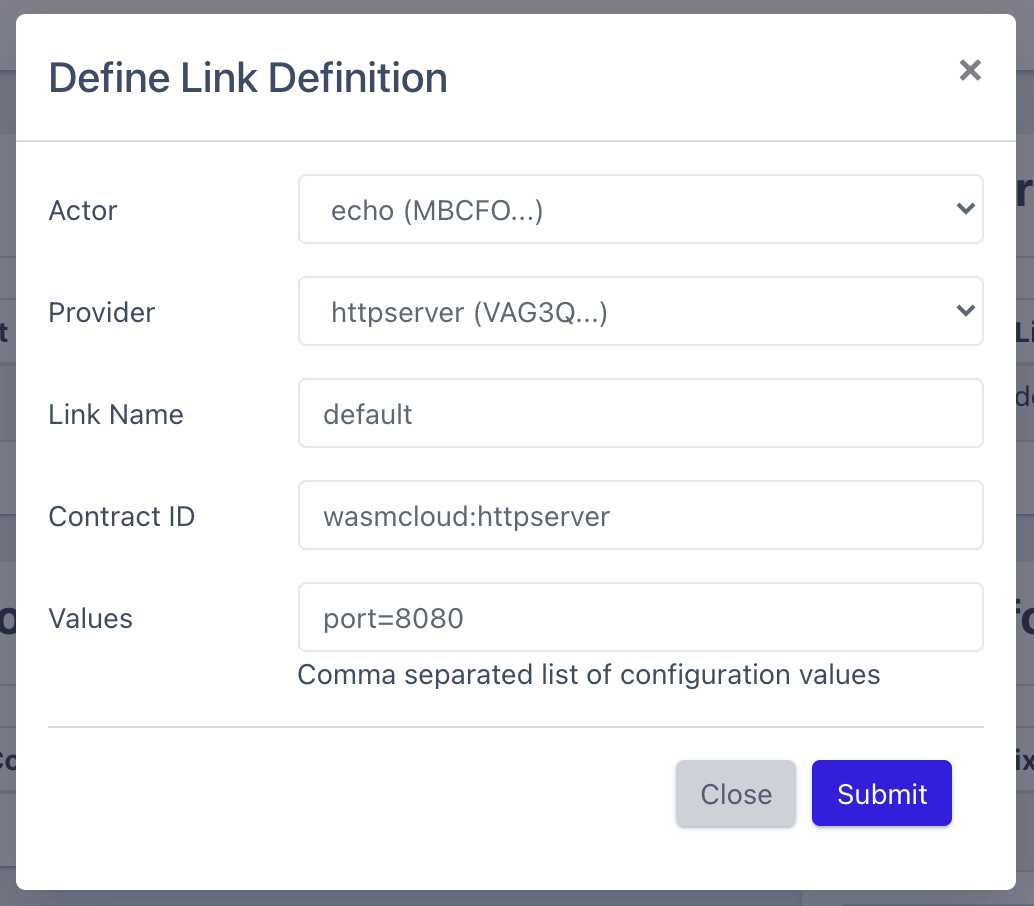
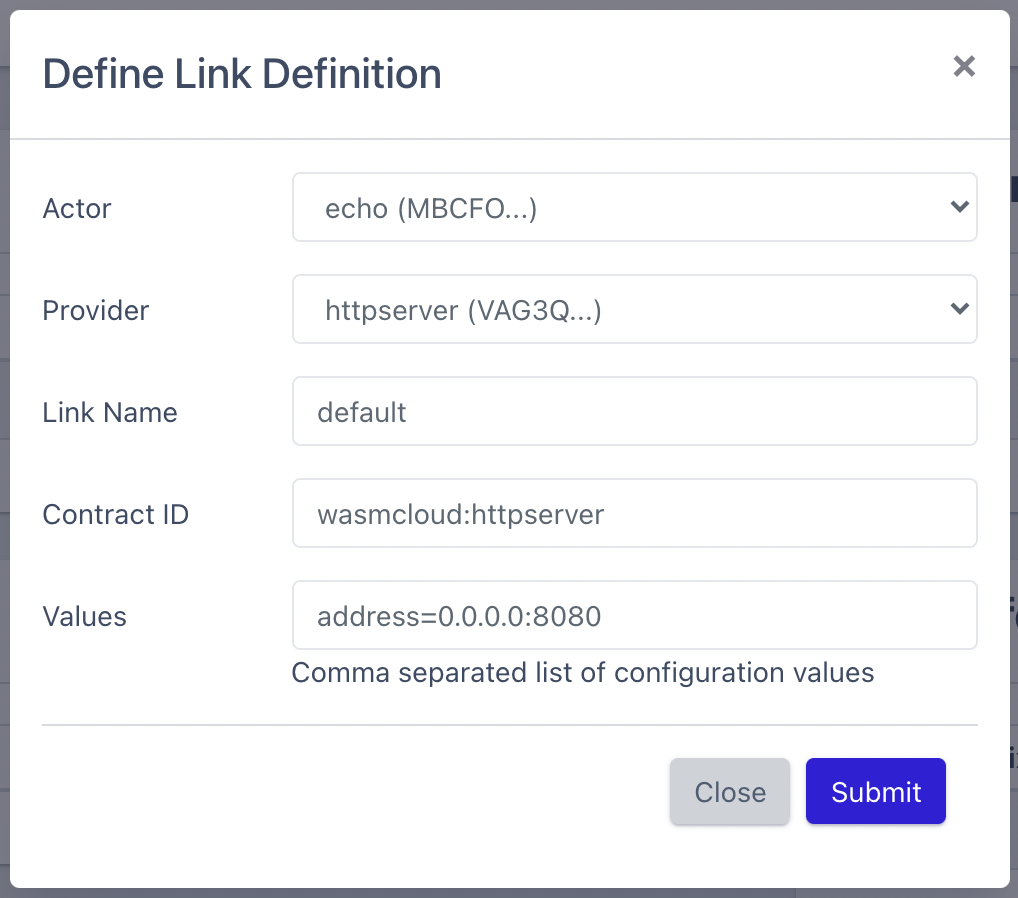
Hot Reload documentation (#79)
* added hotreload documentation

* polished first getting started section

* ensured markdown language is set across docs

small cleanup

* PR suggestions

* renamed input to enter

* corrected version to be minor bump

diff --git a/content/overview/getting-started/_index.en.md b/content/overview/getting-started/_index.en.md
@@ -24,6 +24,8 @@ To see a list of running hosts, issue the following command in a terminal window
 
 ```shell
 wash ctl get hosts
+```
+```shell
 ⢈⠩  Retrieving Hosts ...
 
   Host ID                                                    Uptime (seconds)
@@ -68,7 +70,8 @@ Let's use the `wash` CLI to inspect the set of capabilities this actor has:
 
 ```shell
 wash claims inspect wasmcloud.azurecr.io/echo:0.3.2
-
+```
+```shell
                                Echo - Module
   Account       ACOJJN6WUP4ODD75XEBKKTCCUJJCY5ZKQ56XVKYK4BEJWGVAOOQHZMCW
   Module        MBCFOPM6JW2APJLXJD3Z5O4CN7CPYJ2B4FTKLJUR5YR5MITIU7HD3WD5
@@ -82,11 +85,11 @@ wash claims inspect wasmcloud.azurecr.io/echo:0.3.2
   None
 ```
 
-To start the HTTP server capability provider, again use the web UI and click **Start Provider** and then select _From Registry_. Supply the OCI URL `wasmcloud.azurecr.io/httpserver:0.14.4` and leave the _link name_ set to `default`. You should now see this capability provider running.
+To start the HTTP server capability provider, again use the web UI and click **Start Provider** and then select _From Registry_. Supply the OCI URL `wasmcloud.azurecr.io/httpserver:0.14.6` and leave the _link name_ set to `default`. You should now see this capability provider running, and within 30 seconds it should report its status as Healthy.
 
 ![dashboard3](./washboard3.png)
 
-Let's take a look at our host's inventory now. If you re-run the inventory command `wash ctl get inventory`, you should see something like the following (again, your Host ID and Actor ID will differ):
+Let's take a look at our host's inventory now. If you re-run the inventory command `wash ctl get inventory`, you should see something like the following (again, your Host ID will be different):
 
 ```shell
 Host Inventory (NCPGH5CVPO3BAZ5OSQKXYHDKPBT3JXLG5EAOTG7XOXUWJ6AHZCFT57SI)
@@ -99,16 +102,17 @@ Host Inventory (NCPGH5CVPO3BAZ5OSQKXYHDKPBT3JXLG5EAOTG7XOXUWJ6AHZCFT57SI)
   MBCFOPM6JW2APJLXJD3Z5O4CN7CPYJ2B4FTKLJUR5YR5MITIU7HD3WD5    N/A                wasmcloud.azurecr.io/echo:0.3.2
 
   Provider ID                                                 Name               Link Name          Image Reference
-  VAG3QITQQ2ODAOWB5TTQSDJ53XK3SHBEIFNK4AYJ5RKAX2UNSCAPHA5M    N/A                default            wasmcloud.azurecr.io/httpserver:0.14.4
+  VAG3QITQQ2ODAOWB5TTQSDJ53XK3SHBEIFNK4AYJ5RKAX2UNSCAPHA5M    N/A                default            wasmcloud.azurecr.io/httpserver:0.14.6
 ```
 
 #### Linking actors and capability providers
 
-The Echo actor and HTTP Server providers are running, but they aren't connected. Since the HTTP server provider hasn't been _linked_ to any actor yet, it hasn't yet open a port to listen to web requests to forward to the actor. To allow the actor and provider to communicate, they need to be linked. We could link them with wash cli (`wash ctl link put ...`), using the ActorID and the ProviderID from the inventory, but this time we'll link them in the web UI.
+The Echo actor and HTTP Server providers are running, but they aren't connected. Since the HTTP server provider hasn't been _linked_ to any actor yet, it hasn't yet opened a port to listen to web requests to forward to the actor. To allow the actor and provider to communicate, they need to be linked. We could link them with wash cli (`wash ctl link put ...`), using the Actor ID and the Provider ID from the inventory, but this time we'll link them in the web UI.
 
-Go back to the web UI and click **Define Link**. The web UI remembered the public keys of the actors and providers running, so you just need to pick them out of a dropdown selector at the top of the form, as shown below. For the 'Values' field, you can select a port number for the HTTP Server listener, and enter `port=8080` if you want to use port 8080 on localhost. (there should be no spaces before or after the equals sign). If you want the HTTP listener to use a different ip address, use "address" instead of port, and provide both IP address and the port, as in `address=10.1.1.1:8080`.
-
-⚠ `Docker` If you're running this example using the docker image, you'll need to use `address=0.0.0.0:8080` instead of the `port` value. This is required due to the way containers expose ports to host networking environments.
+Go back to the web UI and click **Define Link**. The web UI remembered the public keys of the actors and providers running, so you just need to pick them out of a dropdown selector at the top of the form, as shown below. For the 'Values' field, you'll need to provide either a port to listen on or an address including hostname and port. For simplicity and compatibility, enter the following into your 'Values' form:
+```shell
+address=0.0.0.0:8080
+```
 
 ![dashboard4](./washboard4.png)
 
@@ -118,7 +122,7 @@ Once you see that the link has been added to the dashboard UI (you can also use 
 
 In another terminal window, run the following command:
 
-```
+```shell
 curl localhost:8080/echo
 ```
 
@@ -153,14 +157,14 @@ Once you locate the value, go ahead and export it as an environment variable:
 {{% tabs %}}
 {{% tab "Unix" %}}
 
-```
+```shell
 export WASMCLOUD_CLUSTER_SEED=SCAJIRZPJGI2ODWHALXJ5U7ZRC7MR27JMJOPLIKMDJ3QNQGA3TCPDFENDI
 ```
 
 {{% /tab %}}
 {{% tab "Windows Powershell" %}}
 
-```
+```powershell
 $env:WASMCLOUD_CLUSTER_SEED = SCAJIRZPJGI2ODWHALXJ5U7ZRC7MR27JMJOPLIKMDJ3QNQGA3TCPDFENDI
 ```
 

diff --git a/content/app-dev/create-actor/update.md b/content/app-dev/create-actor/update.md
@@ -5,6 +5,29 @@ weight: 5
 draft: false
 ---
 
+### Setting up Hot Reloading
+
+This section will introduce you to the process wasmCloud developers use to rapidly iterate on their actors. Introduced in wasmCloud `v0.51.0`, the Hot Reloading feature allows the dashboard to watch your signed actor file and automatically replace all instances of that actor upon a file change. This happens quickly (blink and you might miss it!) and tightly constrains the developer feedback loop so you can spend more time developing and less time waiting.
+
+Let's start by scaling down our `hello` actor if it's still running from a previous step. Look for the yellow scale button <img src="../scalebutton.png" alt="scalebutton" width="30px"/> in the 'Actions' column, and set the replicas to `0` before hitting Submit.
+
+![scaledown](../scaledown.png)
+
+Now, let's start the actor again using the "Start Actor" dropdown, but this time let's use the _From File (Hot Reload)_ option. You'll be required to supply the absolute path [^1] to your actor file, and you can choose a number of replicas to start as well. Luckily, we have an easy way for you to get the absolute path of your actor. Simply navigate to your actor project directory and run:
+```shell
+make target-path-abs
+```
+
+Copy the path printed by this command into the and enter it in the _Start Actor_ form along with any number of replicas, and hit submit.
+
+![starthotreload](../starthotreload.png)
+
+You should now see your actor with a `hot reloading` status badge, and you're ready to proceed to the next section and make changes.
+
+![hotreloading](../hotreloading.png)
+
+### Making modifications
+
 Our new actor has come pre-equipped with a message handler that generates a text string in the body of the response. By default, the text is "Hello World", and the greeting changes if the URL contains a name parameter. We will modify the business logic of the actor to select the greeting, using a second URL paramter. In this exercise, you will go through the process of editing code, recompiling, and updating the actor in a live running system.
 
 The new parameter that selects the greeting will be called `msg`. If msg is "hello" (or if there is no msg parameter), the greeting will be "Hello NAME". If msg is "bye", the greeting will be 'Goodbye NAME', and so on.  
@@ -41,27 +64,17 @@ The new parameter that selects the greeting will be called `msg`. If msg is "hel
 
 In `src/lib.rs`, replace handle_request with the code above. Since we aren't releasing a new version of the actor yet, we don't need to change the version number in `Cargo.toml`.
 
-Run `make` to build the actor and re-sign it  If there are no errors compiling the actor, you are ready to update it on the host. Earlier in this guide, we started the actor from the web ui. This time we'll update it from the command line.
-
-⚠ We're currently tracking an [issue](https://github.com/wasmCloud/project-templates/issues/17) with `make update`. For now, you can easily use the yellow `scale` button in the dashboard to scale your actor's instances to `0`, and then start the actor from the newly built file as you've done before.
-
-There are `wash` commands to push the signed webassembly file to the local registry, and to issue a command to the host to load the actor from the registry and update it. We've written commands in the Makefile for you so you don't need to fill in all the arguments by hand. All you need to do is type these two commands:
-
-```
-make push
-make update
-```
-
-(If you want to see what these are doing, type `make -n push` or `make -n update`).
-
-It is not necessary to re-issue a link command. The host replaces all running instances of the actor with the new version, and re-links them with the HttpServer capability provider, using the link paramaeters already provided.
-
+Run `make` to build the actor and re-sign it. The host replaces all running instances of the actor with the new version, thanks to the hot reload feature, and re-links them with the HttpServer capability provider using the link parameters already provided. It is not necessary to re-issue a link command. 
 
 Let's try out the new actor:
 
-```
+```shell
 curl 'localhost:8087/?name=Alice&msg=hello'
+```
+```shell
 curl 'localhost:8087/?name=Bob&msg=bye'
+```
+```shell
 curl 'localhost:8087/?name=Carol&msg=hey'
 ```
 
@@ -71,3 +84,5 @@ _This is the way production software services were meant to be_.
 
 No-fuss version management. Secure software supply-chain.
 Zero-downtime upgrades.
+
+[^1]: Because we're running the wasmCloud dashboard in a browser, the `Upload File` form is prevented from knowing exactly where files are on disk for security reasons. However, since the host process, an Elixir application, has access to files on disk, an absolute path (or relative path from where you started the host) is accessible for hot reloading.

diff --git a/content/app-dev/create-actor/run.md b/content/app-dev/create-actor/run.md
@@ -17,7 +17,7 @@ Building the actor is as easy as running `make` in the project's root directory.
 
 There are countless ways to run the actor we just created, and if you went through the [getting started](../../../overview/getting-started) section, you'll have seen some some of them already. Open your browser to view the web dashboard at [http://localhost:4000](http://localhost:4000). If you've configured your host with an alternate port number, use that here.
 
-At this point, simply click **Start Actor** and then choose _from file_. Open a browser to your current project directory and then navigate to the `build` directory. Here you'll find a `(project)_s.wasm` file, where `(project)` is `hello`, or the name you selected for the project. The `_s` suffix indicates that this WebAssembly module has been _signed_.
+At this point, simply click **Start Actor** and then choose _From File_. Open a browser to your current project directory and then navigate to the `build` directory. Here you'll find a `(project)_s.wasm` file, where `(project)` is `hello`, or the name you selected for the project. The `_s` suffix indicates that this WebAssembly module has been _signed_.
 
 A moment later you should see the actor in your web UI as shown in the following screenshot:
 
@@ -25,41 +25,62 @@ A moment later you should see the actor in your web UI as shown in the following
 
 ### Start the web server
 
-We know our new actor needs a web server, so let's start the HTTP server capability provider. To do that, click the **Start Provider** button and enter this OCI URL: `wasmcloud.azurecr.io/httpserver:0.14.4`. Now we should have both an actor and a provider, and the dashboard should look like this:
+We know our new actor needs a web server, so let's start the HTTP server capability provider. To do that, click the **Start Provider** button and enter this OCI URL: `wasmcloud.azurecr.io/httpserver:0.14.6`. Now we should have both an actor and a provider, and the dashboard should look like this:
 
 ![actor and provider](../actorandprovider.png)
 
 ### Add a link definition
 
-With both the provider and the actor running, the next step is to _link_ the two. This provides a set of configuration values that is unique for each actor's use of a provider. To change things up slightly, and so you develop some muscle memory with the command line tooling, we'll use the `wash` CLI here. To link your actor, you'll' need the actor's public key. You can get that by clicking on the clipboard icon next to the actor name in the dashboard web UI (it'll be a long string that starts with **M**).
+With both the provider and the actor running, the next step is to _link_ the two. This provides a set of configuration values that is unique for each actor's use of a provider. To change things up slightly, and so you develop some muscle memory with the command line tooling, we'll use the `wash` CLI here. To link your actor, you'll' need the actor's public key. You can get that by clicking on the dark blue clipboard icon next to the actor name in the dashboard web UI (it'll be a long string that starts with **M**).
 
-Once you've got the actor's public key, you can enter the following command, replacing `ACTOR_ID` with the key you just put on your clipboard:
+Once you've got the actor's public key, you can export a `HELLO_ACTOR_ID` environment variable with that value and copy-and-paste the link command:
 
-```bash
-wash ctl link put ACTOR_ID VAG3QITQQ2ODAOWB5TTQSDJ53XK3SHBEIFNK4AYJ5RKAX2UNSCAPHA5M wasmcloud:httpserver address=0.0.0.0:8087
+{{% tabs %}}
+{{% tab "Unix" %}}
+
+```shell
+# Paste your actor ID after the `=` below (with no space after the `=`)
+export HELLO_ACTOR_ID=
 ```
+```shell
+wash ctl link put ${HELLO_ACTOR_ID} VAG3QITQQ2ODAOWB5TTQSDJ53XK3SHBEIFNK4AYJ5RKAX2UNSCAPHA5M wasmcloud:httpserver address=0.0.0.0:8087
+```
+
+{{% /tab %}}
+{{% tab "Windows Powershell" %}}
+
+```powershell
+# Paste your actor ID after the `=` below (with a space after the `=`)
+$env:HELLO_ACTOR_ID = 
+```
+```powershell
+wash ctl link put $env:HELLO_ACTOR_ID VAG3QITQQ2ODAOWB5TTQSDJ53XK3SHBEIFNK4AYJ5RKAX2UNSCAPHA5M wasmcloud:httpserver address=0.0.0.0:8087
+```
+
+{{% /tab %}}
+{{% /tabs %}}
 
 At this point your HTTP server capability provider has been notified that a link definition was created, and it started the corresponding web server listening on port `8087`. You can now hit that endpoint and exercise the code you just wrote:
 
-```bash
+```shell
 curl localhost:8087
 ```
 
 and you should get the response:
 
-```bash
+```text
 Hello World
 ```
 
 The actor accepts an optional parameter `name`, and uses it to change the greeting. (Notice the quotes around the url below).
 
-```bash
+```shell
 curl "localhost:8087?name=Carol"
 ```
 
 The response should be
 
-```bash
+```text
 Hello Carol
 ```
 

diff --git a/content/app-dev/workflow/_index.en.md b/content/app-dev/workflow/_index.en.md
@@ -17,10 +17,11 @@ Once you've established a dependency on a library that exposes the interface abs
 The developer's _iteration loop_ for building an actor looks something like this:
 1. Make code changes
 1. Compile and sign the WebAssembly module, creating a `_s.wasm` file (using `make` in an actor project)
-1. Deploy the module to public or local OCI registry (`make push`)
-1. Test the module in a host
-    1. Manually via uploading in wasmCloud web dashboard or with (`make start`)
-    1. Script `wash call` commands to invoke the actor
+1. Test the module
+    1. In the wasmCloud web dashboard
+        1. Use the _From File (Hot reload)_ form to automatically watch actor files for changes
+        1. Script `wash call` commands to invoke the actor
+        1. Modify your actor code, run `make` to recompile and re-sign the actor, repeat the above step
     1. Leverage the `wasmcloud:testing` interface and the [test provider](https://github.com/wasmCloud/wasmcloud-test)
 1. _Repeat_
 

diff --git a/content/app-dev/create-actor/generate.md b/content/app-dev/create-actor/generate.md
@@ -7,7 +7,7 @@ draft: false
 
 Creating the scaffold for a new actor in Rust is easy. We will create an actor that accepts an HTTP request and responds with "Hello World". To create your new actor project, change to the directory where you want the project to be created, and enter the command below. The last term on the command `hello` is the project name. If you choose a different project name, the name of the subdirectory and some symbols in the generated code will be different from the example code in this guide.
 
-```
+```shell
 wash new actor hello
 ```
 
@@ -57,7 +57,7 @@ This shows us that we're using a core wasmCloud crate called `wasmbus_rpc` and w
 
 Just below that, you'll see:
 
-```
+```rust
 #[derive(Debug, Default, Actor, HealthResponder)]
 #[services(Actor, HttpServer)]
 struct HelloActor {}

diff --git a/content/app-dev/getting-started/_index.en.md b/content/app-dev/getting-started/_index.en.md
@@ -11,7 +11,7 @@ Next, make sure you have the language of your choice installed and ready to go. 
 
 Before you can build [actors](/reference/host-runtime/actors) with Rust, you'll need to have the `wasm32-unknown-unknown` target added to your environment. You can set this up by executing the following command:
 
-```
+```shell
 rustup target add wasm32-unknown-unknown
 ```
 

diff --git a/content/app-dev/create-actor/_index.en.md b/content/app-dev/create-actor/_index.en.md
@@ -13,4 +13,4 @@ This guide will walk you through the following steps to create an actor:
 
 * [Generating a new actor project](./generate)
 * [Running the actor](./run)
-* [Customizing the actor and performing a live update](./update)
+* [Customizing the actor and using the hot-reload feature](./update)

diff --git a/content/reference/wash/contexts.md b/content/reference/wash/contexts.md
@@ -37,7 +37,7 @@ cat $HOME/.wash/contexts/host_config.json | jq
 
 {{% /tab %}}
 {{% tab "Windows Powershell" %}}
-```shell
+```powershell
 Get-Content $HOME\.wash\contexts\host_config.json | ConvertFrom-Json | ConvertTo-Json
 ```
 
